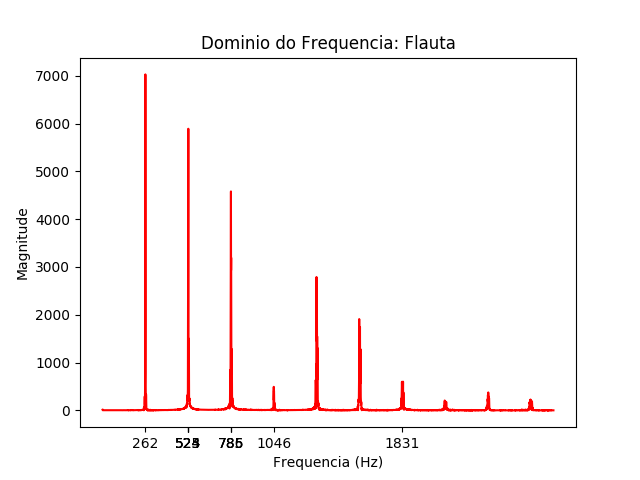
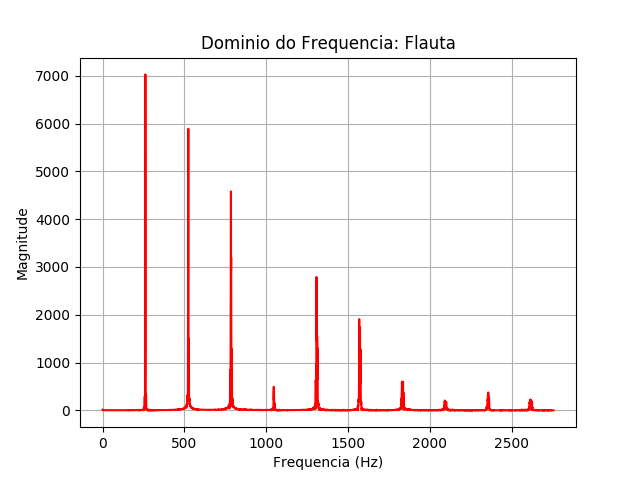
script para geracao de graficos no dominio do tempo e da frequencia

diff --git a/utilitarios.py b/utilitarios.py
@@ -1,0 +1,128 @@
+import numpy as np
+from scipy.io import wavfile as wav
+import itertools
+TAMANHO_IDEAL = 2**16
+
+
+def flat_list(lista):
+    '''
+    Dada uma lista de listas, retorna um np.array com todos
+    os valores "corridos"
+    Exemplo: Se a entrada for [ [1,2,3], [4, 5, 6] ]
+    a saida sera [1, 2, 3, 4, 5, 6]
+
+    @param lista : lista de listas
+    @return np.array : np.array com todos os elementos da lista
+    '''
+
+    return np.array(list(itertools.chain.from_iterable(lista)))
+
+
+def pre_processa(dados, left_channel=0, debug=False):
+    '''
+    Dado um array  que representa um audio, retorna o array
+    cujo tamanho e' potencia de 2.
+    E' extraido a parte central do array.
+    '''
+
+    dados = dados[:, left_channel]
+    tam_amostra = len(dados)
+    fora = (tam_amostra - TAMANHO_IDEAL) / 2
+    dados = dados[fora:-fora]
+    if (len(dados) % 2 == 1):
+        dados = np.delete(dados, 0)
+    if (debug is True):
+        print "Tamanho da amostra: ", tam_amostra
+        print "Tamanho apos recorte: ", len(dados)
+    dados = np.array(dados, dtype=np.float32)
+
+    return dados
+
+
+def gera_fft(dados):
+    '''
+    Dado um array MONO que representa um audio, retorna os coeficientes
+    da fft.
+    '''
+
+    fft_dados = np.fft.fft(dados)
+    return fft_dados
+
+
+def normaliza(dados):
+    '''
+    Dado um audio como entrada (e o tamanho da respectiva amostra)
+    retorna um array fft normalizado, ou seja, cada elemento do array
+    e dividido pelo modulo da maior amplitude(no dominio do tempo).
+    Tamanho padrao da amostra e 2^16
+    '''
+
+    dados_norm = dados / max(np.abs(dados))
+
+    return dados_norm
+
+
+def preProcessamento(arquivo):
+    '''
+    Funcao que encapsula todo o pre-processamento para a classificacao.
+    - Abre o arquivo.
+    - Extrai a porcao central
+    - Normaliza (divide todas as posicoes pelo valor maximo)
+    - Gera a fft com o mesmo tamanho da amostra
+    - Guarda a magnitude (mX)
+    - Guarda a magnitude na escola log (20*log10(mX))
+    - Guarda a magnitude quadrada (mX^2)
+    - Guarda a fase (phX)
+    - Guarda a metade dos vetores
+    - Determina os indices dos 10 maiores componentes
+    - Define vetor de frequencias
+    - Define o vetor de tempo
+    - Seleciona dois periodos para Plot (referencia C4 = 261.76 Hz)
+
+    @param : arquivo - Caminho para arquivo.wav a ser processado
+    @return : saida - lista contendo a taxa de amostragem do sinal,
+    o sinal x, a magnitude da fft, a fase da fft, magnitude quadrada
+    e os indices dos 10 maiores valores da magnitude.
+    '''
+
+    sr, x = wav.read(arquivo)  # sr = sample rate = 44100
+    x = pre_processa(x)        # Fazer 'fade in / out'
+    x = normaliza(x)
+    X = gera_fft(x)
+
+    # Guarda a magnitude de X
+    mX = abs(X)
+
+    # Guarda a magnitude de X na escala log
+    mX_log = 20*np.log10(abs(X))
+
+    # Guarda a magnitude ao quadrado
+    mX_sq = mX**2
+
+    # Guarda a fase
+    phX = np.angle(X)
+
+    # Pega apenas a metade do vetor
+    N = len(X)
+#   x = x[:N/2]
+    mX = mX[:N/2]
+    mX_log = mX_log[:N/2]
+    mX_sq = mX_sq[:N/2]
+    phX = phX[:N/2]
+
+    mX_cpy = mX.copy()
+    mX_cpy = sorted(mX_cpy, reverse=True)
+    mask = mX_cpy[:10]
+
+    # determinar os indices dos 10 maiores componentes. MAGNITUDE
+    idx = []
+    for i in range(len(mask)):
+        index = np.where(mX == mask[i])
+        idx.append(index)
+
+    idxs = [i[0][0] for i in idx]
+
+    # Vetores com as saidas
+    saida = [sr, x, mX, mX_sq, phX, idxs]
+
+    return saida

diff --git a/geraGraficos2.py b/geraGraficos2.py
@@ -1,0 +1,115 @@
+import numpy as np
+import matplotlib.pyplot as plt
+import utilitarios as utils
+import separaNota as sN
+
+
+def plotDominioTempo(instrumento, sr, x, nota, pastaDestino='Figuras/'):
+    '''
+    Plota grafico no dominio do tempo, pelo trecho equivalente a 2 periodos.
+    Nota de referencia - Do 32.70 Hz
+
+    @param instrumento : nome do arquivo de entrada
+    @param sr   : sample rate, taxa de amostragem do arquivo
+    @param x    : arquivo de entrada.
+    @param nota : nota a ser plotada. Exemplo: C3, C4, C5;
+    @param pastaDestino : pasta para guardar a imagem.
+    '''
+    N = len(x)
+    k = np.arange(N)
+
+    # Vetor dos instantes
+    tempo = k/float(sr)
+
+    # Selecao de exatamente uma oscilacao. C0 = 32.703194
+
+    oitava = int(nota[1])
+    f_0 = 32.703194           # freq. de referencia
+    f_do = f_0*2**(oitava-1)  # Hz
+    T_do = 1/f_do             # s
+    delta = 4*(int(sr*T_do))    # pega dois periodos do Do.
+
+    # Titulo e nome de arquivo de saida
+    Titulo = "Dominio do Tempo: " + instrumento[:-7]
+    nomeArq = "DoisPeriodos_" + nota + '_' + instrumento[:-7] + ".png"
+    DEST = pastaDestino + nomeArq
+
+    plt.clf()
+    plt.plot(tempo[:delta], x[:delta], 'b')
+    plt.xlabel("Tempo (s)")
+    plt.ylabel("Amplitude")
+    plt.grid()
+
+    plt.title(Titulo)
+    plt.savefig(DEST)
+
+
+def plotDominioFreq(instrumento, sr, mX, nota, pastaDestino='Figuras/'):
+    '''
+    Plota grafico no dominio da frequencia
+    Nota de referencia - Do 32.70 Hz
+
+    @param instrumento : nome do arquivo de entrada
+    @param sr   : sample rate, taxa de amostragem do arquivo
+    @param x    : arquivo de entrada.
+    @param nota : nota a ser plotada. Exemplo: C3, C4, C5;
+    @param pastaDestino : pasta para guardar a imagem.
+    '''
+
+    N = 2*len(mX)
+    # Definicao do vetor de frequencias
+    k = np.arange(N)
+    T = N/float(sr)
+    freq = k/T
+
+    # Marcacoes no eixo da frequencia
+#    k1 = np.arange(0, 6, 2)     # Do, Re, Mi
+#    k2 = np.arange(5, 12, 2)    # Fa, Sol, La, Si
+#    k = np.append(k1, k2)
+#    k = np.append(k, k + 12)    # 2 oitavas
+#    K = 2**(k/12.)
+
+#    oitava = int(nota[1])
+#    f_0 = 32.703194           # freq. de referencia
+#    f = f_0*2**(oitava-1)     # Hz
+#    f_ticks = np.round(f*K, 3)
+
+    delta = len(mX)/4
+
+    Titulo = "Dominio da Frequencia: " + instrumento[:-7]
+    nomeArq = "Frequencia_" + nota + '_' + instrumento[:-7] + ".png"
+    DEST = pastaDestino + nomeArq
+
+    plt.clf()
+    plt.plot(freq[:delta], mX[:delta], 'r', markersize=1)
+
+#   plt.plot(freq[:2**12], saida[j][2][:2**12], 'b.')
+#   plt.plot(freq[idxs], mX[idxs], 'ro', markersize=3)
+#   plt.xticks(f_ticks)
+
+    plt.xlabel("Frequencia (Hz)")
+    plt.ylabel("Magnitude")
+    plt.title(Titulo)
+    plt.grid()
+    plt.savefig(DEST)
+
+
+# Nota desejada
+nota = 'C5'
+
+# Lista de instrumentos executando a mesma nota.
+inst_list = sN.separaInstrumentosMesmaNota(nota)
+
+inst_list = utils.flat_list(inst_list)
+
+# Realiza pre processamento dos arquivos na lista.
+Saida = []
+
+for i in range(len(inst_list)):
+
+    arq = sN.diretorio+inst_list[i]
+    out = utils.preProcessamento(arq)
+
+    plotDominioTempo(inst_list[i], out[0], out[1], nota)
+    plotDominioFreq(inst_list[i], out[0], out[2], nota)
+#   Saida.append(out)

diff --git a/separaNota.py b/separaNota.py
@@ -1,22 +1,56 @@
-# import numpy as np
-# from scipy.io import wavfile as wav
-# import matplotlib.pyplot as plt
 import os
 import re
-# import itertools
-TAMANHO_IDEAL = 2**16
+
 
 # lista com os nomes dos arquivos
 diretorio = 'AmostrasTratadas/'
 arquivos = os.listdir(diretorio)
 arquivos.sort()
-
-# separa os arquivos e grupos por notas
-
 Notas = ["A", "B", "C", "D", "E", "F", "G"]
-# lista que guarda arquivos de mesma nota
-ArquivosNotas = []
-for i in range(len(Notas)):
-    res = "." + Notas[i] + "[0-9]."
-    arq = [x for x in arquivos if re.search(res, x)]
-    ArquivosNotas.append(arq)
+
+
+def separaNotas():
+    '''
+    Do conjunto de 416 arquivos, organiza-os em uma lista por notas.
+    Exemplo de saida:
+    ["Cello_C3.wav", "Cello_C4.wav", "Cello_C5.wav, "Clarineta_C3.wav",
+     "Clarineta_C4.wav"]
+
+    @return lisa : lista de listas contendo as amostras de cada mostra ordenada
+    Apenas notas naturais, nao apresenta sustenidos.
+    '''
+
+    # lista que guarda arquivos de mesma nota
+    ArquivosNotas = []
+
+    for i in range(len(Notas)):
+        subs = "." + Notas[i] + "[0-9]."
+        arq = [x for x in arquivos if re.search(subs, x)]
+        ArquivosNotas.append(arq)
+
+    return ArquivosNotas
+
+
+def separaInstrumentosMesmaNota(nota):
+    '''
+    Do conjunto de 416 arquivos separa todos os instrumentos que executam
+    a nota passada por parametro e retorna o resultado em lista.
+    Exemplo de saida: ["Cello_C5.wav", "Clarineta_C5.wav", "Flauta_C5.wav"]
+    '''
+
+    # serparacao por intrumentos para gerar graficos
+    classes = ['Cello', 'Clarineta', 'Flauta', 'Oboe',
+               'Trombone', 'Trompete', 'Viola', 'Violino']
+
+    # nota desejada
+    Nota = nota[0]
+    oitava = nota[1]
+    idx = Notas.index(Nota)
+    Instrumentos = []
+
+    for i in range(len(classes)):
+        subs = classes[i] + "." + Notas[idx] + oitava + "."
+        inst = [x for x in arquivos if re.search(subs, x)]
+        Instrumentos.append(inst)
+
+    return Instrumentos

diff --git a/geraGraficos.py b/geraGraficos.py
@@ -116,7 +116,7 @@ for j in (idx1, idx2):
     ReX_cpy = ReX.copy()
     mX_cpy = mX.copy()
     # print de verificacao. Antes da ordenacao
-   
+
     f = open('atrib_'+str(arquivos[j][:-7])+'.txt', 'w')
 
     print >> f, 'ATRIBUTOS ANTES DA ORDENACAO'
@@ -142,7 +142,7 @@ for j in (idx1, idx2):
     print >> f, 'Magnitude'
     print >> f, mask
     print >> f, 80*'='
-    
+
     f.close()
 
     # determinar os indices dos 10 maiores componentes. PARTE REAL
@@ -207,7 +207,7 @@ if(PLOT is True):
         plt.xlabel("Tempo (s)")
         plt.ylabel("Amplitude")
         plt.title(Titulo)
-#        plt.savefig(DEST)
+        plt.savefig(DEST)
 
 # PLOT DOMINIO DA FREQUENCIA - PARA OS 10 MAIORES VALORES mX
 
@@ -218,15 +218,16 @@ if(PLOT is True):
         DEST = pastaDestino + nomeArq
 
         plt.clf()
-        plt.plot(freq[:2**12], saida[j][1][:2**12], 'r')
+        plt.plot(freq[:2**12], saida[j][2][:2**12], 'r')
 #        plt.plot(freq[:2**12], saida[j][2][:2**12], 'b.')
 
 #        plt.plot(freq[idxs], mX[idxs], 'ro', markersize=3)
-        plt.xticks(freq[saida[j][3]])
+#        plt.xticks(freq[saida[j][3]])
         plt.xlabel("Frequencia (Hz)")
         plt.ylabel("Magnitude")
         plt.title(Titulo)
-#        plt.savefig(DEST)
-        plt.show()
+        plt.grid()
+        plt.savefig(DEST)
+#        plt.show()
 
 os.system('spd-say "Features extracted successfully!" -r -80')
